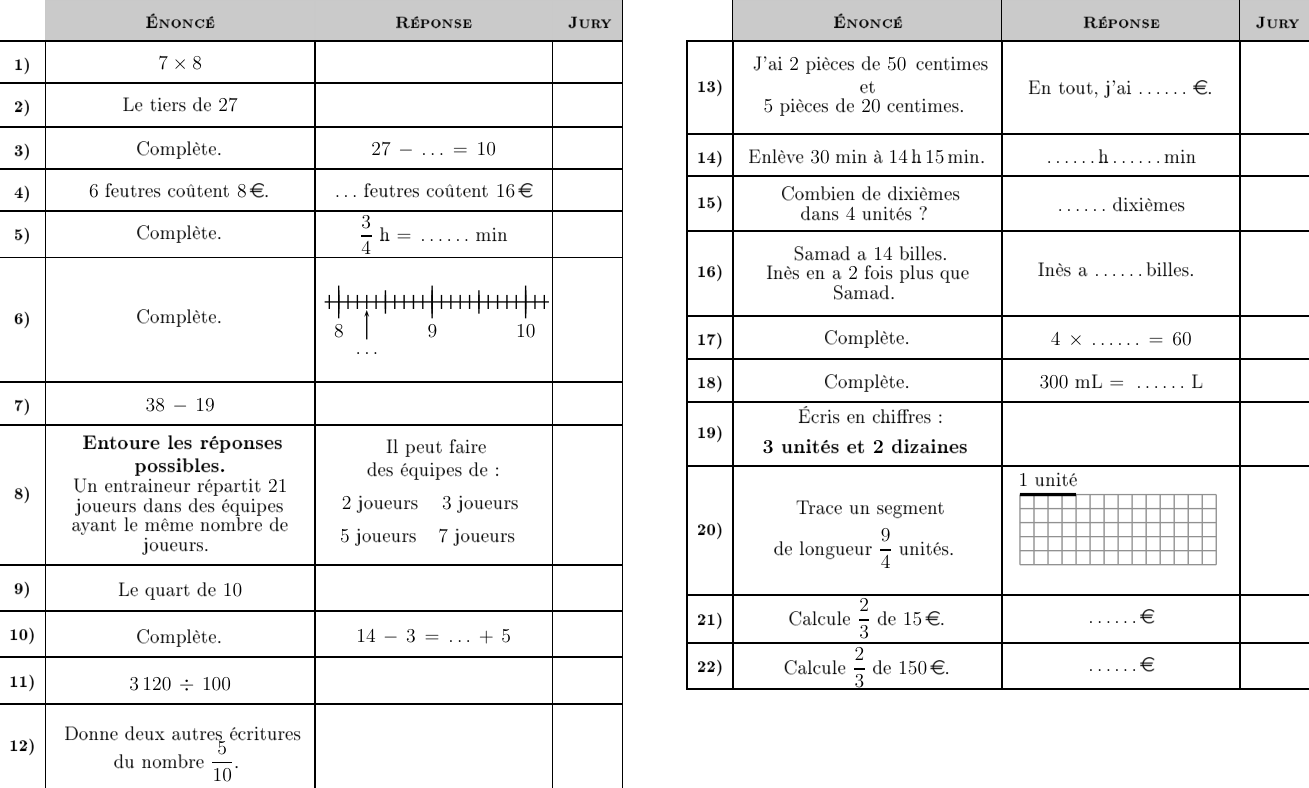
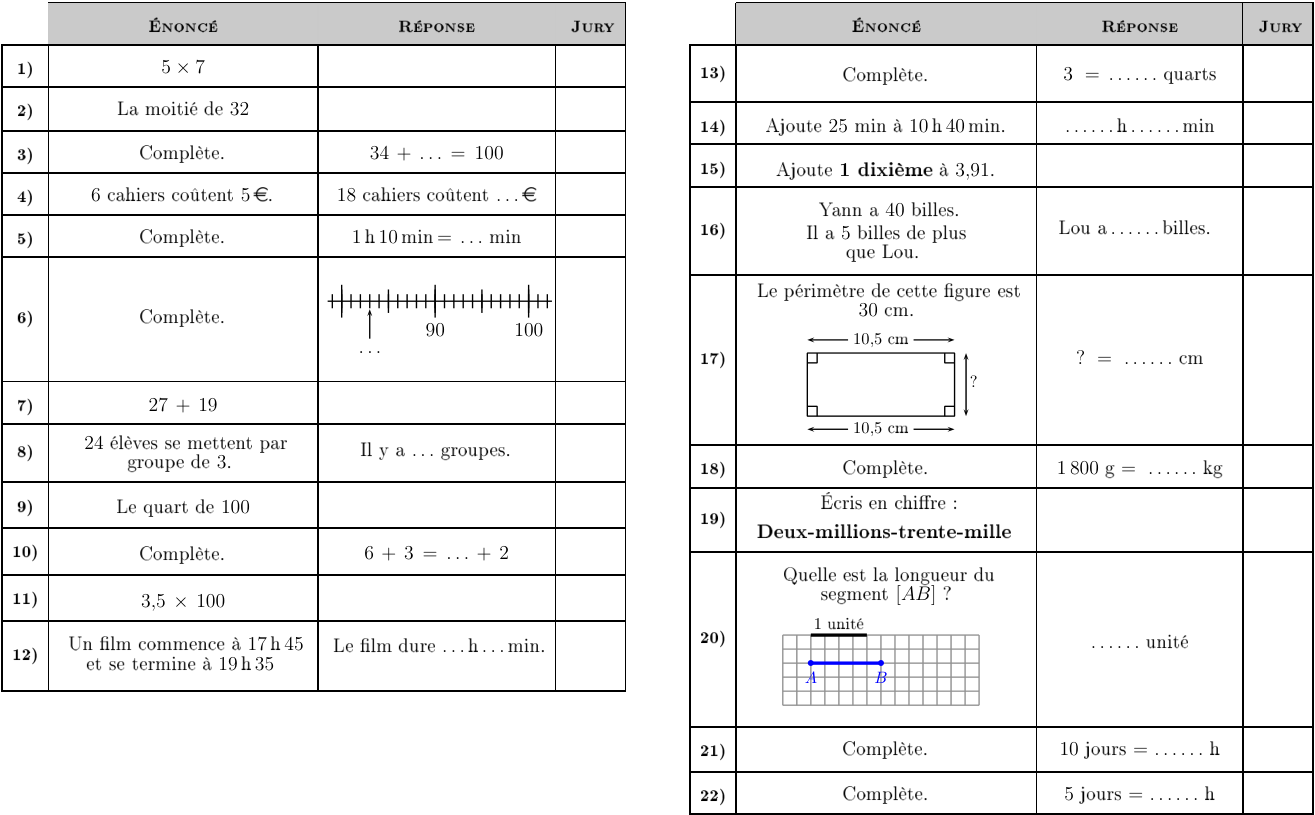
4 septembre

diff --git a/documents/enseignement/6e/geometrie-plane/points-et-droites/seances.tex b/documents/enseignement/6e/geometrie-plane/points-et-droites/seances.tex
@@ -17,20 +17,96 @@
 
 % Yvan Monka : https://www.maths-et-tiques.fr/telech/19Para_Perp.pdf
 
-% \disableAnimation
-% \shortAnimation
-% \firstSlide
+\ifArticle{\vspace*{0.1cm}}
 
-% \qf{
-%     {$70\euro$ diminué de $10\%$, $63\euro$},
-%     {$50\euro$ augmenté de $20\%$, $\pcalc{50*120/100}\euro$}%
-% }[15]
+\scn{Objet géométrique}{}
+
+\bseq{\longTitle}
+\bsec{Objet géométrique}
+\bsubsec{Le point}
+
+\slide{COURS}{
+    \ssec\ssubsec
+    \vc{}{
+        On nomme \key{point} est le plus petit élément géométrique.
+        Il est infiniment petit,
+        tant qu'il n'a pas de dimension.
+    }
+}
+
+\slide{EXERCICES}{
+    \act{}{
+        Représenter un point.
+    }
+}
+
+\slide{COURS}{
+    \rmk{}{
+        On représente le point par une croix
+    }
+
+    \df{}{
+        Deux points sont dits distincts s'ils ne sont pas confondus
+    }
+
+    \expl{}{
+        Les points $A$ et $B$ sont confondus et les points $A$ et $C$ sont distincts.
+    }
+}
+
+\bsubsec{La droite}
+\slide{COURS}{
+    \ssubsec
+
+    \vc{}{On nomme \key{droite} un tracé rectiligne infini.}
+}
+
+\slide{EXERCICES}{
+    \act{}{Représenter une droite passant par deux points $A$ et $B$}
+}
+
+\slide{COURS}{
+    \rmk{}{On ne peut pas représenter une droite entièrement}
+
+    \axio{}{
+        Il existe une unique droite passant par deux points.
+    }
+
+    \expl{}{
+        Pour deux points $D$ et $E$ disctincts.
+        On peut noter la droite qui passe par $D$ et $E$, $(DE)$ ou $(ED)$.
+    }
+}
+
+\bsubsec{Le segment et la demi-droite}
+
+\slide{COURS}{
+    \ssubsec
+
+    \df{}{Un \key{segment} est une portion de droite,
+    limité par deux \key{extrémités}
+    }
+
+    \expl{}{
+        Pour deux points $D$ et $E$ disctincts.
+        Le segment reliant $D$ et $E$ est le chemin le plus court entre ces deux points.
+        On le note $[DE]$.
+    }
+}
 
 
+\slide{COURS}{
+    \ssubsec
 
-% \qfSUB{}{}
+    \df{}{Une \key{demi-droite} est une portion de droite,
+    limité par une seule extrémité, son \key{origine}.
+    }
 
-% \vspace*{0.05cm}
+    \expl{}{
+        Pour deux points $D$ et $E$ disctincts.
+        On peut noter, la demi-droite d'origine $D$ passant par $E$, $[DE)$.
+    }
+}
 
 \scn{Alignement}{}
 
@@ -52,7 +128,6 @@
     \\ \hint{plusieurs réponses sont attendues}
 }
 
-\bseq{\longTitle}
 \bsec{Alignement}
 
 \slide{EXERCICES}{
@@ -68,7 +143,7 @@
     \sseq\ssec%
 
     \df{}{
-        Des points sont \key{alignés} s'il existe une droite passant par tous ces points.
+        Des points sont dit \key{alignés} s'il existe une droite passant par tous ces points.
     }
 }
 
@@ -110,7 +185,7 @@
 \slide{QUESTIONS FLASH}{
     \sqf Les droites $(f)$ et $(g)$ semblent être:
     \vspace*{-0.5cm}
-    \imgp{qf3}[5cm]
+    \imgp{qf3}[4cm]
     \qfs Sécantes \hfill \qfs Parallèles \hfill \qfs Perpendiculaires \hfill
     \vspace*{0.5cm}
     \\ \hint{plusieurs réponses sont attendues}
@@ -129,7 +204,7 @@
     \ssec\ssubsec%
     %
     \df{}{
-        Deux droites sont \key{sécantes} si elles se coupent en un unique point.
+        Deux droites sont dites \key{sécantes} si elles se coupent en un unique point.
     }
     \vspace*{-1cm}
     \expl{}{
@@ -143,7 +218,7 @@
 
 \slide{}{
     \df{}{
-        Deux droites sont \key{perpendiculaires} si elles sont sécantes et leur intersection forme un angle droit.
+        Deux droites sont dites \key{perpendiculaires} si elles sont sécantes et leur intersection forme un angle droit.
     }
     \vspace*{-1cm}
     \expl{}{
@@ -157,7 +232,7 @@
 
 \slide{}{
     \df{}{
-        Deux droites sont \key{parallèles} si elles ne sont pas sécantes.
+        Deux droites sont dites \key{parallèles} si elles ne sont pas sécantes.
     }
     \vspace*{-1cm}
     \expl{}{

diff --git a/documents/enseignement/5e/nombres-relatifs/reperage-et-comparaison/seances.tex b/documents/enseignement/5e/nombres-relatifs/reperage-et-comparaison/seances.tex
@@ -3,7 +3,7 @@
 % \date{\today}
 \def\longTitle{Nombres Relatifs : Repérage et comparaison}
 \def\shortTitle{\MakeUppercase{\longTitle}}
-% \bseq{\longTitle}
+\bseq{\longTitle}
 % \def\theme{\longTitle}
 
 \setboolean{showRef}{false}
@@ -23,7 +23,11 @@
 % \firstSlide
 
 \def\pv{\; ; \;}
-\scn{Repérage}{}
+
+% \article{\vskip}
+\ifArticle{\vspace*{0.1cm}}
+
+\scn{Introduction aux nombres négatifs}{}
 
 \slide{QUESTIONS FLASH}{%
     \sqf Comparer à l'aide du signe $>$ ou $<$ ou $=$ les nombres :
@@ -42,14 +46,16 @@
 }
 
 \slide{}{%
-    \sqf Ranger les nombres suivant dans l'ordre croissant les nombres :
-    \begin{align*}
-        1,2 \pv 6 \pv 1,15 \pv 2 \pv 100 \pv 0,584
-    \end{align*}
+    \sqf Donner dans chaque cas l'abscisse du point $P$ :\\
+    \noindent \qfs \imgp{qf-reperage-droite-a}[6cm]
+    \qfs \imgp{qf-reperage-droite-b}[9cm]
+    \qfs \imgp{qf-reperage-droite-c}[6cm]
 }
 
+\bsec{Définitions}
 
 \slide{EXERCICES}{
+    \vspace*{-0.5cm}
     \act{}{
         \dividePage{
             \imgp{carte}[6cm]
@@ -62,4 +68,71 @@
         }
     }
     % [\href{https://www.facebook.com/groups/994675223903586/search/?q=activite\%20m%C3\%A9t\%C3\%A9o\%20nombres\%20relatifs\&locale=fr\_FR}{Vanessa Cazier}]
+}
+
+\slide{COURS}{
+    \sseq\ssec
+    \df{}{
+        Un nombre est dit :
+        \begin{itemize}
+            \item \key{positif} si il est supérieur ou égal à zéro
+            \item \key{négatif} si il est supérieur ou égal à zéro
+        \end{itemize}
+    }
+}
+
+\slide{}{
+    \rmk{}{
+        \begin{itemize}
+            \item $O$ est à la fois positif et négatif
+            \item On nomme nombres relatifs l'ensemble des nombres positifs et négatifs.
+        \end{itemize}
+    }
+}
+
+\slide{EXERCICES}{
+    \act{}{
+        Exprimer un résultat aux opérations suivante :
+        \multiColEnumerate{3}{
+            \item $9 - 3$ \item $0 - 5$ \item $10 - 12$
+            \item $0 - 9,3$ \item $100 - 250$ \item $\frac{1}{5} - \frac{3}{5}$
+        }
+    }
+}
+
+\slide{COURS}{
+    \hist{}{
+        La découverte des nombres négatifs est souvant attribuée à Brahmagupta,
+        Mathématicien et astronome indien du VIe siècle.\\
+        Il les introduit dans le but de résoudre des oppositions autrement impossibles.
+        Dans les cadres de calculs dettes notamment.
+    }
+    \expl{}{
+        Brahmagupta possède $2\euro$ et achète $4$ baguettes à $1,5\euro$.
+        Quelle quantité d'argent a-t-il après son achat ?
+    }
+}
+
+\scn{Repérage}{}
+
+\bsec{Repérage}
+
+\slide{EXERCICES}{
+    \act{}{
+        \begin{enumerate}
+            \item Tracer une droite numérique sur laquelle placer les points :
+            $A$ d'abscisse 1, $B$ d'abscisse $1,5$
+            \item Placer $C$ d'abscisse $0$
+            \item Placer $D$ d'abscisse $-1$
+            \item Placer $E$ d'abscisse $-3,5$
+        \end{enumerate}
+    }
+}
+
+\slide{COURS}{
+    \ssec
+}
+
+\slide{EXERCICES}{
+    \exo{Maths Monde 51 p197}{}
 }

diff --git a/documents/enseignement/special/1er-seance/seance.tex b/documents/enseignement/special/1er-seance/seance.tex
@@ -2,6 +2,7 @@
 \def\authors{\jules}
 % \date{\today}
 \def\longTitle{Rentrée}
+\def\shortTitle{RENTREE}
 \setcounter{seq}{0}
 \def\title{\longTitle}
 % \bseq{\longTitle}
@@ -11,8 +12,8 @@
 \def\imgPath{enseignement/special/1er-seance/}
 \def\imgExtension{.png}
 \def\date{Jeudi 5 Septembre 2024}
-\def\grade{6e}
-\def\class{A}
+\def\grade{4e}
+\def\class{E}
 %%
 
 \slide{\hfill RENTREE - \date{} - \grade \class \hfill}{%
@@ -48,10 +49,10 @@
     \begin{enumerate}
         \item 2 Cahiers - $24 \times 32$ - grands carreaux : %
         \multiColItemize{2}{
-            \item cahier de cour
-            \item cahier d'exercice
+            \item cahier de cours
+            \item cahier d'exercices
         }
-        \item Reserve de copies - simples et doubles - grands carreaux
+        \item Réserve de copies - simples et doubles - grands carreaux
         \item Matériel de géométrie : %
         \multiColItemize{3}{
             \item règle graduée

diff --git a/main.tex b/main.tex
@@ -1,7 +1,9 @@
 \documentclass[aspectratio=169, usenames,dvipsnames,xcolor=table]{beamer}
 \input{header/beamer/header.tex}
 
-% \documentclass[a4paper, 12pt]{extarticle}
+% \documentclass[a4paper, 12pt
+% % , landscape
+% ]{extarticle}
 % \input{header/article/header.tex}
 
 \begin{document}
@@ -10,9 +12,10 @@
 % \input{documents/stage-M2/4e/statistiques/tp.tex}
 
 % \input{documents/enseignement/6e/geometrie-plane/points-et-droites/seances.tex}
-\input{documents/enseignement/5e/nombres-relatifs/reperage-et-comparaison/seances.tex}
+% \input{documents/enseignement/5e/nombres-relatifs/reperage-et-comparaison/seances.tex}
 % \input{documents/enseignement/4e/divisibilite-et-nombres-premiers/seances.tex}
 
-% \input{documents/enseignement/special/1er-seance.tex}
+\input{documents/enseignement/special/1er-seance/seance.tex}
+% \input{documents/enseignement/special/1er-seance/course-aux-nombres.tex}
 
 \end{document}

diff --git a/header/article/packageSettings.tex b/header/article/packageSettings.tex
@@ -37,6 +37,22 @@
     \fancyfoot[R]{}
 }
 
+\fancypagestyle{assignment-empty-foot}{
+    \setlength{\headheight}{29pt}
+    \fancyhead[C]{}
+    \fancyhead[L]{\large \title}
+    \fancyhead[R]{%
+        \begin{tabular}{p{0.25\pdfpagewidth}p{0.15\pdfpagewidth}}%
+            \normalsize nom:& \normalsize classe:\\%
+            \normalsize prénom:& \normalsize date:\\%
+            % \normalsize date:\hspace*{3.5cm}%
+        \end{tabular}%
+    }
+    \fancyfoot[L]{}
+    \fancyfoot[C]{}
+    \fancyfoot[R]{}
+}
+
 \fancypagestyle{small}{
     \setlength{\headheight}{20pt}
     \fancyhead[C]{}

diff --git a/header/command/sections.tex b/header/command/sections.tex
@@ -129,6 +129,8 @@
 \newsec{sub}{rmdr}{BrickRed}{Rappel} % Thistle
 \newsec{sub}{mthd}{OrangeRed}{Méthode}
 \newsec{sub}{vc}{ForestGreen}{Vocabulaire}
+\newsec{sub}{hist}{Black}{Histoire}
+\newsec{sub}{axio}{Mahogany}{Axiome}
 
 \newsec{subsub}{rmk}{BrickRed}{Remarque} % Thistle
 \newsec{subsub}{expl}{gray}{Exemple}

diff --git a/documents/enseignement/special/1er-seance/course-aux-nombres.tex b/documents/enseignement/special/1er-seance/course-aux-nombres.tex
@@ -1,0 +1,12 @@
+% VARIABLES %%%
+\def\grade{4e}
+\setcounter{seq}{0}
+\def\title{Course aux nombres \grade}
+\def\imgPath{enseignement/special/1er-seance/}
+\def\imgExtension{.png}
+
+\thispagestyle{empty}
+\thispagestyle{assignment-empty-foot}
+%%
+
+\imgp{can-\grade}

diff --git a/header/article/command.tex b/header/article/command.tex
@@ -82,3 +82,6 @@
         #2
     \end{minipage}
 }
+
+\newcommand{\ifArticle}[1]{#1}
+\newcommand{\ifBeamer}[1]{}

diff --git a/header/beamer/command.tex b/header/beamer/command.tex
@@ -145,3 +145,6 @@
 }
 
 \renewcommand*{\scn}[2]{}
+
+\newcommand{\ifArticle}[1]{}
+\newcommand{\ifBeamer}[1]{#1}
